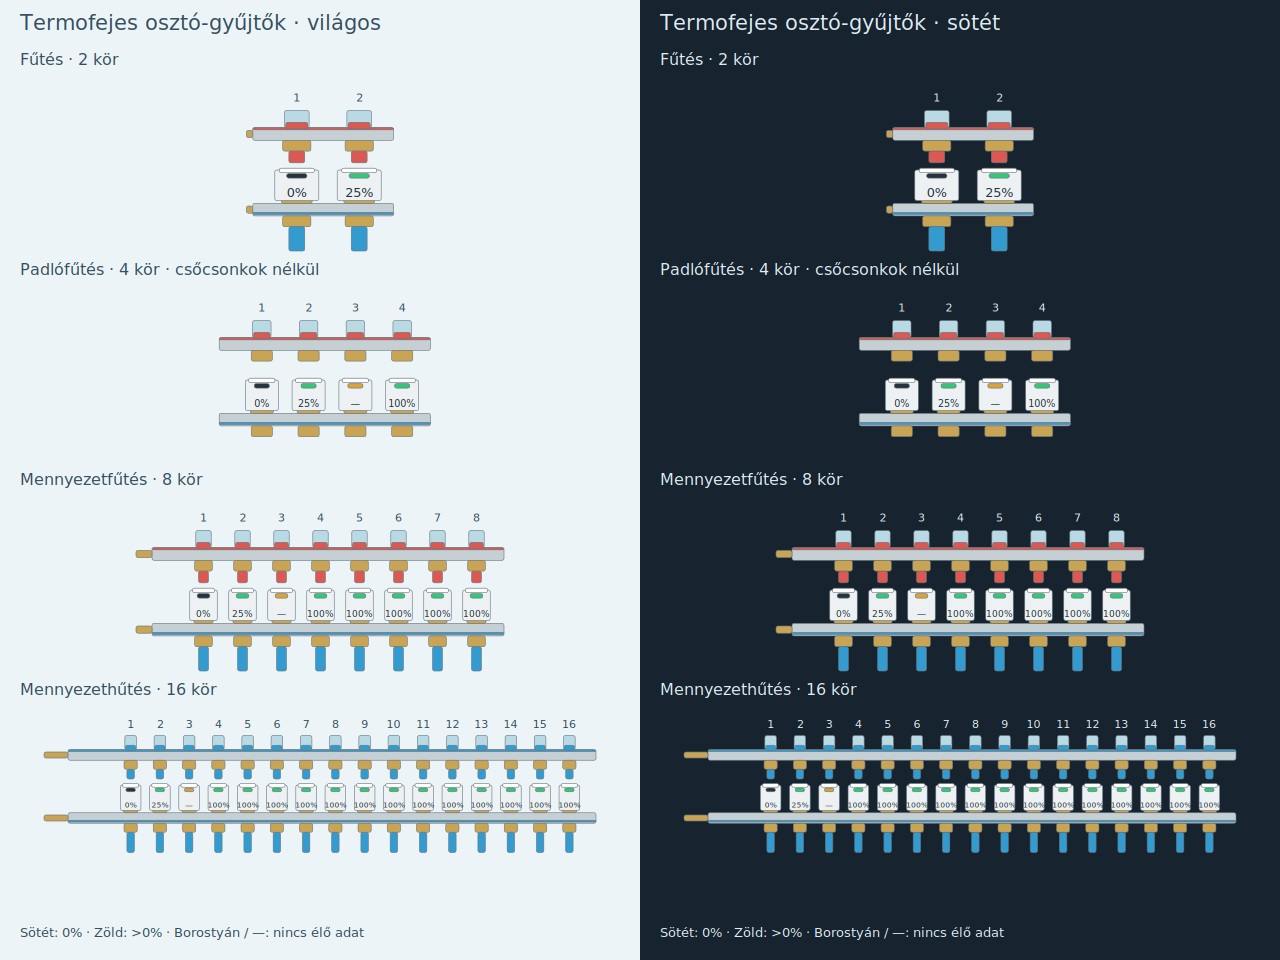
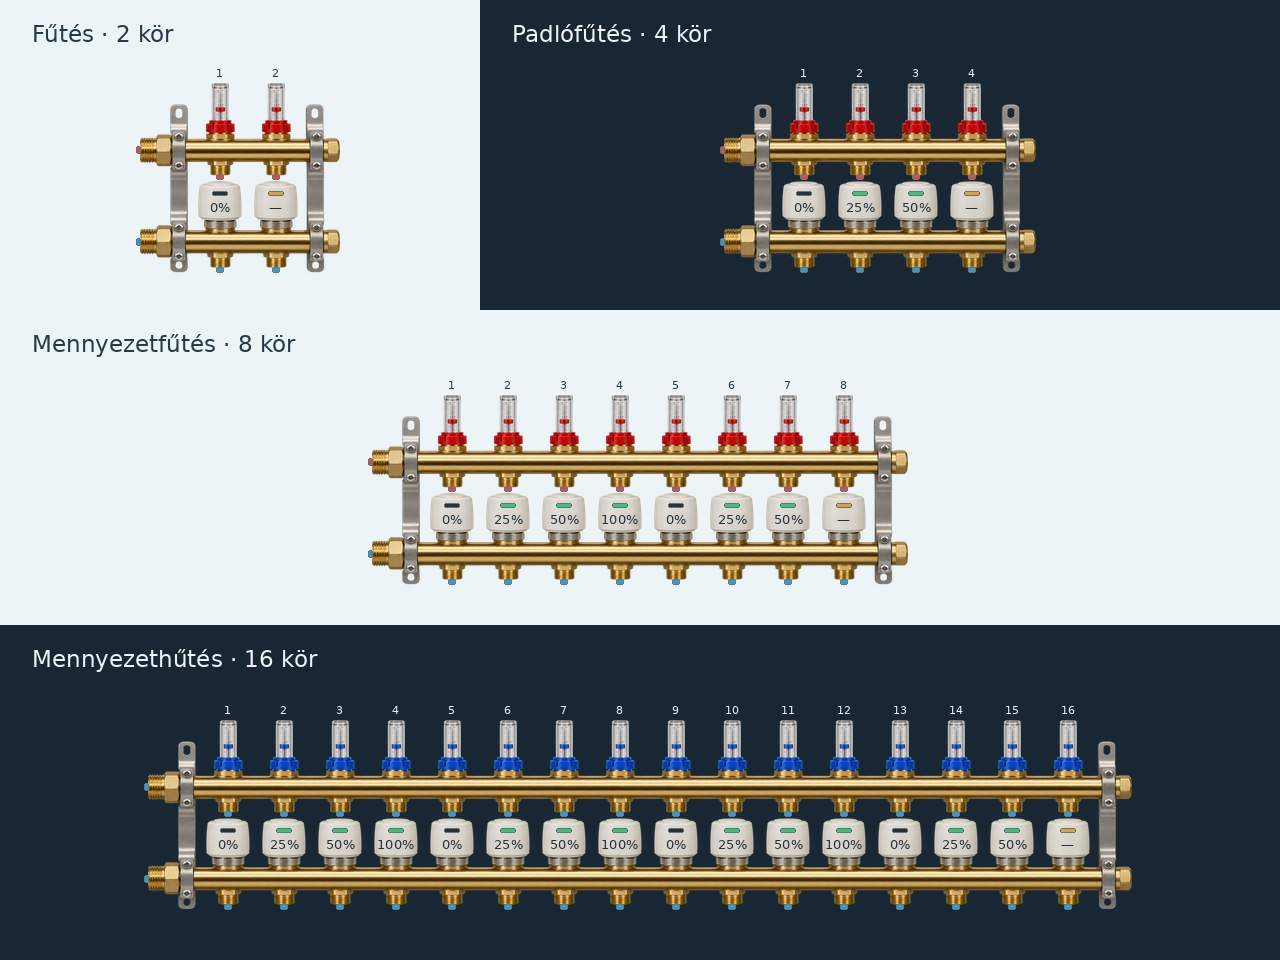
Document manifold calibration and refresh editor and LVGL previews

diff --git a/tools/build_manifold_preview.py b/tools/build_manifold_preview.py
@@ -1,57 +1,52 @@
-"""A szerkesztő tényleges rajzelemeiből összeállított világos/sötét csoportelőnézet."""
+"""A becsomagolt osztótestek a webszerkesztő jelzőivel és csonkjaival."""
 import io
 import json
 import subprocess
 from pathlib import Path
-from xml.sax.saxutils import escape
 
-import cairosvg
-from PIL import Image
+from PIL import Image, ImageDraw, ImageFont
+from build_assets import manifold_png
 
 ROOT = Path(__file__).resolve().parents[1]
-# A készülék és a böngésző is ugyanezt a geometriát használja.
 source = """
-import {newManifold,manifoldParts,manifoldHeadState} from './web/model.js';
-const variants=['heating','floor','ceiling-heat','ceiling-cool'];
-console.log(JSON.stringify([2,4,8,16].map((n,i)=>{
-    const m=newManifold(n);m.variant=variants[i];m.connections=i!==1;
-    m.heads.forEach((h,j)=>{h.percent=j===1?25:j>2?100:0;});
-    if(n>2)m.heads[2].source={uuid:'12345678-1234-5678-0102030405060708',scale:1,offset:0};
-    return {m,parts:manifoldParts(m),states:m.heads.map(h=>manifoldHeadState(h,{}))};
+import {newManifold, manifoldParts, manifoldCenter, manifoldHeadState} from './web/model.js';
+console.log(JSON.stringify([2,4,8,16].map((n,row)=>{
+    const m=newManifold(n);
+    if(row===3) m.variant='ceiling-cool';
+    m.heads.forEach((h,i)=>{h.percent=[0,25,50,100][i%4];});
+    m.heads[n-1].source={uuid:'12345678-1234-5678-0102030405060708',scale:1,offset:0};
+    return {n, parts:manifoldParts(m), heads:m.heads.map((h,i)=>({
+        x:manifoldCenter(n,i), ...manifoldHeadState(h,{})}))};
 })));
 """
 rows = json.loads(subprocess.check_output(["node", "--input-type=module", "-e", source], cwd=ROOT))
-svg = ['<svg xmlns="http://www.w3.org/2000/svg" width="1280" height="960">']
-labels = ['Fűtés · 2 kör', 'Padlófűtés · 4 kör · csőcsonkok nélkül',
-          'Mennyezetfűtés · 8 kör', 'Mennyezethűtés · 16 kör']
-for theme in range(2):
-    left = theme * 640
-    bg, text = ('#17232f', '#dfecf4') if theme else ('#edf4f8', '#354e60')
-    svg.append(f'<rect x="{left}" width="640" height="960" fill="{bg}"/>')
-    def title(x, y, value, size=16):
-        svg.append(f'<text x="{x}" y="{y}" fill="{text}" font-size="{size}" font-family="DejaVu Sans">{escape(value)}</text>')
-    title(left+20, 30, 'Termofejes osztó-gyűjtők · ' + ('sötét' if theme else 'világos'), 21)
-    for row, data in enumerate(rows):
-        y = 65 + row*210
-        title(left+20, y, labels[row])
-        m = data['m']
-        scale = min(1, 600/(80+40*m['circuits']))
-        w, h = (80+40*m['circuits'])*scale, 180*scale
-        x0, y0 = left+(640-w)/2, y+15
-        for p in data['parts']:
-            fill = p['color']
-            if 'head' in p:
-                state = data['states'][p['head']]
-                fill = '#d9a23a' if not state['known'] else '#36c678' if state['active'] else '#26333d'
-            svg.append(f'<rect x="{x0+p["x"]*w}" y="{y0+p["y"]*h}" width="{p["w"]*w}" height="{p["h"]*h}" rx="2" fill="{fill}" stroke="#67747d" stroke-width=".6"/>')
-        for i, state in enumerate(data['states']):
-            x = x0+(.16+.78*(i+.5)/m['circuits'])*w
-            for value, ytext, size in [(str(i+1), y0+.12*h, 11),
-                                       (f'{state["percent"]:.0f}%' if state['known'] else '—', y0+.65*h, max(9,min(16,(80+40*m['circuits'])*.16/m['circuits']))*scale)]:
-                svg.append(f'<text x="{x}" y="{ytext}" text-anchor="middle" fill="{text if ytext == y0+.12*h else "#26333d"}" font-family="DejaVu Sans" font-size="{size}">{value}</text>')
-    title(left+20, 937, 'Sötét: 0% · Zöld: >0% · Borostyán / —: nincs élő adat', 13)
-svg.append('</svg>')
-image = Image.open(io.BytesIO(cairosvg.svg2png(bytestring=''.join(svg).encode()))).convert('RGB')
-output = ROOT/'doc/grafika/latvanytervek/08d-parameterezheto-osztok.jpg'
-image.save(output, quality=94)
-print(output)
+image = Image.new("RGB", (1280,960), "#edf4f8")
+draw = ImageDraw.Draw(image)
+def font(size):
+    return ImageFont.truetype("DejaVuSans.ttf", size)
+layouts = [(0,0,480,310), (480,0,800,310), (0,310,1280,315), (0,625,1280,335)]
+titles = ["Fűtés", "Padlófűtés", "Mennyezetfűtés", "Mennyezethűtés"]
+for index, (row, (x,y,w,h)) in enumerate(zip(rows,layouts)):
+    dark = index in (1,3)
+    bg, ink = ("#182733","#ecf2f6") if dark else ("#edf4f8","#273a48")
+    draw.rectangle((x,y,x+w-1,y+h-1), fill=bg)
+    n = row["n"]
+    draw.text((x+32,y+20), f"{titles[index]} · {n} kör", font=font(23), fill=ink)
+    body = Image.open(io.BytesIO(manifold_png(n,index==3)))
+    bw,bh = body.size
+    left,top=x+(w-bw)//2,y+(h-bh)//2+8
+    image.paste(body,(left,top),body)
+    for part in row["parts"]:
+        color = part["color"]
+        if "head" in part:
+            head=row["heads"][part["head"]]
+            color="#d9a23a" if not head["known"] else "#36c678" if head["active"] else "#26333d"
+        px=round(left+part["x"]*bw); py=round(top+part["y"]*bh)
+        draw.rounded_rectangle((px,py,px+round(part["w"]*bw)-1,py+round(part["h"]*bh)-1),
+                               radius=1,fill=color,outline="#67747d")
+    for i,head in enumerate(row["heads"]):
+        cx=round(left+head["x"]*bw)
+        draw.text((cx,top+26),str(i+1),anchor="ms",font=font(11),fill=ink)
+        text=f"{head['percent']:.0f}%" if head["known"] else "—"
+        draw.text((cx,top+161),text,anchor="ms",font=font(13),fill="#26333d")
+image.save(ROOT/"doc/grafika/latvanytervek/08d-parameterezheto-osztok.jpg", quality=93)

diff --git a/tools/generate_catalog_report.py b/tools/generate_catalog_report.py
@@ -15,10 +15,10 @@ counts = Counter(item['category'] for item in items)
 finished = Counter(item['category'] for item in ready)
 lines = ['# Grafikai készletnyilvántartás', '',
          f'**{len(items)} katalógustípus; {len(ready)} típushoz bekötött egyedi kép, '
-         f'{len({item["artwork"] for item in ready})} külön PNG-forrásból; {len(procedural)} számított műszaki grafika (egy szabadon paraméterezhető osztó és rögzített körszámú változatok).**', '',
-         'Minden katalógustípus képpel vagy pontos darabszámú számított grafikával megjeleníthető. '
+         f'{len({item["artwork"] for item in ready})} külön PNG-forrásból; {len(procedural)} fotómodulokból összeállított grafika (egy szabadon paraméterezhető osztó és rögzített körszámú változatok).**', '',
+         'Minden katalógustípus képpel vagy körszám szerint összeállított fotóval megjeleníthető. '
          'A grafikai bekötés nem helyettesíti a fizikai P4-/Miniserver-próbát; az MS1 még nyitott.', '',
-         '| Csoport | Típus | Egyedi képpel | Számított | Még helyőrző |', '| --- | ---: | ---: | ---: | ---: |']
+         '| Csoport | Típus | Egyedi képpel | Fotómodulokból | Még helyőrző |', '| --- | ---: | ---: | ---: | ---: |']
 for category, names in catalog.CATEGORIES.items():
     lines.append(f'| {names["hu"]} | {counts[category]} | {finished[category]} | {parameterized[category]} | {counts[category] - finished[category] - parameterized[category]} |')
 lines += ['', 'A fűtési, szolár és általános keringető azonos fizikai szivattyúházat használhat. '
@@ -28,7 +28,7 @@ for category, names in catalog.CATEGORIES.items():
     for item in items:
         if item['category'] != category:
             continue
-        status = f'[Egyedi kép](../../assets/elements/universal/{item["artwork"]}.png)' if 'artwork' in item else '[Számított osztógrafika](../osztogyujtok.md)' if item in procedural else 'Műszaki helyőrző'
+        status = f'[Egyedi kép](../../assets/elements/universal/{item["artwork"]}.png)' if 'artwork' in item else '[Moduláris osztókép](../osztogyujtok.md)' if item in procedural else 'Műszaki helyőrző'
         lines.append(f'| `{item["id"]}` | {item["name"]["hu"]} | {item["name"]["en"]} | {status} |')
     lines.append('')
 lines += ['A nyilvántartást a `python3 tools/generate_catalog_report.py` frissíti a firmware-katalógusból.', '']

diff --git a/doc/grafika/csatlakozopont-audit.md b/doc/grafika/csatlakozopont-audit.md
@@ -6,11 +6,11 @@ A `catalog/port-calibration.json` az érvényes koordinátaforrás. A raszter SH
 
 A hátoldalon takart csatlakozások és a tengelyirányból mutatott karimák pontjai sematikus vetületek. Ezeknél a meglévő képen nem látható minden csonk; nem állítjuk, hogy látható nyíláshoz illeszkednek. Az érzékelők kábelei, rögzítőfülek, zárt sapkák és villamos csatlakozók nem új csőportok.
 
-A 11 számított osztónál az ágak és a pontok azonos paraméterekből készülnek; a szabadon állítható osztó minden 2–16 körszámmal külön ellenőrzött.
+Az osztók új kalibrációja a sorban megadott, szélesebb forrásvászonra vonatkozik; a szabadon állítható osztó minden 2–16 körszámmal külön ellenőrzött.
 
 Csővastagság: **1–30 kijelzőpixel**, csövenként a Tulajdonságok panelen. A felirat tartalmazza az egységet és a tartományt. Chromiumban 1/12/30 px rajzolás és tartós mentés, valódi LVGL-objektumon ugyanezek vonalvastagsága ellenőrzött. Minden katalógusport négy forgatásban, fekvő/álló vásznon kap geometriai ellenőrzést. Ez gazdagépes ellenőrzés, a fizikai panelpróbát nem helyettesíti.
 
-| Típus | Ellenőrzés | Portok (160 px vászon, indexsorrend) | Javítva |
+| Típus | Ellenőrzés | Portok (forráspixel, indexsorrend) | Javítva |
 | --- | --- | --- | --- |
 | `gas-boiler` | Látható csonk / nyílás | 64,140; 96,140 | igen |
 | `electric-boiler` | Látható csonk / nyílás | 66,137; 93,137 | igen |
@@ -59,12 +59,12 @@ Csővastagság: **1–30 kijelzőpixel**, csövenként a Tulajdonságok panelen.
 | `tubular-exchanger` | Látható csonk / nyílás | 8,80; 151,80; 47,52; 102,107 | igen |
 | `hydraulic-separator` | Látható csonk / nyílás | 41,53; 121,53; 41,106; 121,106 | igen |
 | `mixing-unit` | Látható csonk / nyílás | 11,61; 149,61; 12,120; 149,120 | igen |
-| `manifold-2` | Számított osztó | 12,49; 12,117; 55,151; 115,151; 55,74; 115,74 | — |
-| `manifold-4` | Számított osztó | 12,49; 12,117; 40,151; 70,151; 100,151; 130,151; 40,74; 70,74; 100,74; 130,74 | — |
-| `manifold-6` | Számított osztó | 12,49; 12,117; 35,151; 55,151; 75,151; 95,151; 115,151; 135,151; 35,74; 55,74; 75,74; 95,74; 115,74; 135,74 | — |
-| `manifold-8` | Számított osztó | 12,49; 12,117; 32.5,151; 47.5,151; 62.5,151; 77.5,151; 92.5,151; 107.5,151; 122.5,151; 137.5,151; 32.5,74; 47.5,74; 62.5,74; 77.5,74; 92.5,74; 107.5,74; 122.5,74; 137.5,74 | — |
-| `manifold-10` | Számított osztó | 12,49; 12,117; 31,151; 43,151; 55,151; 67,151; 79,151; 91,151; 103,151; 115,151; 127,151; 139,151; 31,74; 43,74; 55,74; 67,74; 79,74; 91,74; 103,74; 115,74; 127,74; 139,74 | — |
-| `manifold-12` | Számított osztó | 12,49; 12,117; 30,151; 40,151; 50,151; 60,151; 70,151; 80,151; 90,151; 100,151; 110,151; 120,151; 130,151; 140,151; 30,74; 40,74; 50,74; 60,74; 70,74; 80,74; 90,74; 100,74; 110,74; 120,74; 130,74; 140,74 | — |
+| `manifold-2` | Fotómodulok · 208×224 | 4,99; 4,191; 84,217; 140,217; 84,124; 140,124 | igen |
+| `manifold-4` | Fotómodulok · 320×224 | 4,99; 4,191; 84,217; 140,217; 196,217; 252,217; 84,124; 140,124; 196,124; 252,124 | igen |
+| `manifold-6` | Fotómodulok · 432×224 | 4,99; 4,191; 84,217; 140,217; 196,217; 252,217; 308,217; 364,217; 84,124; 140,124; 196,124; 252,124; 308,124; 364,124 | igen |
+| `manifold-8` | Fotómodulok · 544×224 | 4,99; 4,191; 84,217; 140,217; 196,217; 252,217; 308,217; 364,217; 420,217; 476,217; 84,124; 140,124; 196,124; 252,124; 308,124; 364,124; 420,124; 476,124 | igen |
+| `manifold-10` | Fotómodulok · 656×224 | 4,99; 4,191; 84,217; 140,217; 196,217; 252,217; 308,217; 364,217; 420,217; 476,217; 532,217; 588,217; 84,124; 140,124; 196,124; 252,124; 308,124; 364,124; 420,124; 476,124; 532,124; 588,124 | igen |
+| `manifold-12` | Fotómodulok · 768×224 | 4,99; 4,191; 84,217; 140,217; 196,217; 252,217; 308,217; 364,217; 420,217; 476,217; 532,217; 588,217; 644,217; 700,217; 84,124; 140,124; 196,124; 252,124; 308,124; 364,124; 420,124; 476,124; 532,124; 588,124; 644,124; 700,124 | igen |
 | `electrothermal-manifold-4` | Látható csonk / nyílás | 12,55; 12,127; 44,72; 68,72; 93,72; 117,72; 44,143; 68,143; 93,143; 117,143 | igen |
 | `ball-valve` | Látható csonk / nyílás | 26,97; 127,97 | igen |
 | `shutoff-valve` | Látható csonk / nyílás | 27,120; 132,120 | igen |
@@ -227,10 +227,10 @@ Csővastagság: **1–30 kijelzőpixel**, csövenként a Tulajdonságok panelen.
 | `coil-exchanger` | Látható csonk / nyílás | 36,13; 124,148 | igen |
 | `tube-in-tube-exchanger` | Látható csonk / nyílás | 8,84; 153,84; 44,51.2; 117,115 | igen |
 | `freshwater-station` | Látható csonk / nyílás | 10,64; 10,114; 150,64; 150,114 | igen |
-| `manifold-3` | Számított osztó | 12,49; 12,117; 45,151; 85,151; 125,151; 45,74; 85,74; 125,74 | — |
-| `manifold-5` | Számított osztó | 12,49; 12,117; 37,151; 61,151; 85,151; 109,151; 133,151; 37,74; 61,74; 85,74; 109,74; 133,74 | — |
-| `manifold-7` | Számított osztó | 12,49; 12,117; 33.5714,151; 50.7143,151; 67.8571,151; 85,151; 102.143,151; 119.286,151; 136.429,151; 33.5714,74; 50.7143,74; 67.8571,74; 85,74; 102.143,74; 119.286,74; 136.429,74 | — |
-| `manifold-9` | Számított osztó | 12,49; 12,117; 31.6667,151; 45,151; 58.3333,151; 71.6667,151; 85,151; 98.3333,151; 111.667,151; 125,151; 138.333,151; 31.6667,74; 45,74; 58.3333,74; 71.6667,74; 85,74; 98.3333,74; 111.667,74; 125,74; 138.333,74 | — |
+| `manifold-3` | Fotómodulok · 264×224 | 4,99; 4,191; 84,217; 140,217; 196,217; 84,124; 140,124; 196,124 | igen |
+| `manifold-5` | Fotómodulok · 376×224 | 4,99; 4,191; 84,217; 140,217; 196,217; 252,217; 308,217; 84,124; 140,124; 196,124; 252,124; 308,124 | igen |
+| `manifold-7` | Fotómodulok · 488×224 | 4,99; 4,191; 84,217; 140,217; 196,217; 252,217; 308,217; 364,217; 420,217; 84,124; 140,124; 196,124; 252,124; 308,124; 364,124; 420,124 | igen |
+| `manifold-9` | Fotómodulok · 600×224 | 4,99; 4,191; 84,217; 140,217; 196,217; 252,217; 308,217; 364,217; 420,217; 476,217; 532,217; 84,124; 140,124; 196,124; 252,124; 308,124; 364,124; 420,124; 476,124; 532,124 | igen |
 | `duplex-strainer` | Látható csonk / nyílás | 15,86; 148,86 | igen |
 | `basket-strainer` | Látható csonk / nyílás | 12,83.2; 144,83.2 | — |
 | `prefilter` | Látható csonk / nyílás | 24,41.6; 136,41.6 | — |
@@ -344,4 +344,4 @@ Csővastagság: **1–30 kijelzőpixel**, csövenként a Tulajdonságok panelen.
 | `carbon-monoxide-sensor` | Nincs csőport | — | — |
 | `air-velocity-sensor` | Nincs csőport | — | — |
 | `gas-meter` | Látható csonk / nyílás | 40,13; 120,13 | igen |
-| `configurable-manifold` | Számított osztó | 6.4,48; 6.4,115.2; 29.5,73.6; 29.5,152; 37.3,73.6; 37.3,152; 45.1,73.6; 45.1,152; 52.9,73.6; 52.9,152; 60.7,73.6; 60.7,152; 68.5,73.6; 68.5,152; 76.3,73.6; 76.3,152; 84.1,73.6; 84.1,152; 91.9,73.6; 91.9,152; 99.7,73.6; 99.7,152; 107.5,73.6; 107.5,152; 115.3,73.6; 115.3,152; 123.1,73.6; 123.1,152; 130.9,73.6; 130.9,152; 138.7,73.6; 138.7,152; 146.5,73.6; 146.5,152 | — |
+| `configurable-manifold` | Fotómodulok · 992×224 | 0,99; 0,191; 84,129; 84,222; 140,129; 140,222; 196,129; 196,222; 252,129; 252,222; 308,129; 308,222; 364,129; 364,222; 420,129; 420,222; 476,129; 476,222; 532,129; 532,222; 588,129; 588,222; 644,129; 644,222; 700,129; 700,222; 756,129; 756,222; 812,129; 812,222; 868,129; 868,222; 924,129; 924,222 | igen |

diff --git a/doc/grafika/keszlet.md b/doc/grafika/keszlet.md
@@ -1,10 +1,10 @@
 # Grafikai készletnyilvántartás
 
-**333 katalógustípus; 322 típushoz bekötött egyedi kép, 319 külön PNG-forrásból; 11 számított műszaki grafika (egy szabadon paraméterezhető osztó és rögzített körszámú változatok).**
+**333 katalógustípus; 322 típushoz bekötött egyedi kép, 319 külön PNG-forrásból; 11 fotómodulokból összeállított grafika (egy szabadon paraméterezhető osztó és rögzített körszámú változatok).**
 
-Minden katalógustípus képpel vagy pontos darabszámú számított grafikával megjeleníthető. A grafikai bekötés nem helyettesíti a fizikai P4-/Miniserver-próbát; az MS1 még nyitott.
+Minden katalógustípus képpel vagy körszám szerint összeállított fotóval megjeleníthető. A grafikai bekötés nem helyettesíti a fizikai P4-/Miniserver-próbát; az MS1 még nyitott.
 
-| Csoport | Típus | Egyedi képpel | Számított | Még helyőrző |
+| Csoport | Típus | Egyedi képpel | Fotómodulokból | Még helyőrző |
 | --- | ---: | ---: | ---: | ---: |
 | Fűtés / hűtés | 48 | 48 | 0 | 0 |
 | Tárolás / HMV | 24 | 24 | 0 | 0 |
@@ -117,12 +117,12 @@ A fűtési, szolár és általános keringető azonos fizikai szivattyúházat h
 | `tubular-exchanger` | Csöves hőcserélő | Tubular heat exchanger | [Egyedi kép](../../assets/elements/universal/tubular-exchanger.png) |
 | `hydraulic-separator` | Hidraulikus váltó | Hydraulic separator | [Egyedi kép](../../assets/elements/universal/hydraulic-separator.png) |
 | `mixing-unit` | Keverőegység | Mixing unit | [Egyedi kép](../../assets/elements/universal/mixing-unit.png) |
-| `manifold-2` | Osztó-gyűjtő 2 kör | 2 circuit manifold | [Számított osztógrafika](../osztogyujtok.md) |
-| `manifold-4` | Osztó-gyűjtő 4 kör | 4 circuit manifold | [Számított osztógrafika](../osztogyujtok.md) |
-| `manifold-6` | Osztó-gyűjtő 6 kör | 6 circuit manifold | [Számított osztógrafika](../osztogyujtok.md) |
-| `manifold-8` | Osztó-gyűjtő 8 kör | 8 circuit manifold | [Számított osztógrafika](../osztogyujtok.md) |
-| `manifold-10` | Osztó-gyűjtő 10 kör | 10 circuit manifold | [Számított osztógrafika](../osztogyujtok.md) |
-| `manifold-12` | Osztó-gyűjtő 12 kör | 12 circuit manifold | [Számított osztógrafika](../osztogyujtok.md) |
+| `manifold-2` | Osztó-gyűjtő 2 kör | 2 circuit manifold | [Moduláris osztókép](../osztogyujtok.md) |
+| `manifold-4` | Osztó-gyűjtő 4 kör | 4 circuit manifold | [Moduláris osztókép](../osztogyujtok.md) |
+| `manifold-6` | Osztó-gyűjtő 6 kör | 6 circuit manifold | [Moduláris osztókép](../osztogyujtok.md) |
+| `manifold-8` | Osztó-gyűjtő 8 kör | 8 circuit manifold | [Moduláris osztókép](../osztogyujtok.md) |
+| `manifold-10` | Osztó-gyűjtő 10 kör | 10 circuit manifold | [Moduláris osztókép](../osztogyujtok.md) |
+| `manifold-12` | Osztó-gyűjtő 12 kör | 12 circuit manifold | [Moduláris osztókép](../osztogyujtok.md) |
 | `electrothermal-manifold-4` | Osztó-gyűjtő 4 kör – termoelektromos fejekkel | 4 circuit manifold with electrothermal heads | [Egyedi kép](../../assets/elements/universal/electrothermal-manifold-4.png) |
 | `strainer` | Y-szűrő | Y strainer | [Egyedi kép](../../assets/elements/universal/strainer.png) |
 | `dirt-separator` | Iszapleválasztó | Dirt separator | [Egyedi kép](../../assets/elements/universal/dirt-separator.png) |
@@ -154,10 +154,10 @@ A fűtési, szolár és általános keringető azonos fizikai szivattyúházat h
 | `coil-exchanger` | Csőkígyós hőcserélő | Coil heat exchanger | [Egyedi kép](../../assets/elements/universal/coil-exchanger.png) |
 | `tube-in-tube-exchanger` | Cső a csőben hőcserélő | Tube in tube exchanger | [Egyedi kép](../../assets/elements/universal/tube-in-tube-exchanger.png) |
 | `freshwater-station` | Frissvízmodul | Fresh water station | [Egyedi kép](../../assets/elements/universal/freshwater-station.png) |
-| `manifold-3` | Osztó-gyűjtő 3 kör | 3 circuit manifold | [Számított osztógrafika](../osztogyujtok.md) |
-| `manifold-5` | Osztó-gyűjtő 5 kör | 5 circuit manifold | [Számított osztógrafika](../osztogyujtok.md) |
-| `manifold-7` | Osztó-gyűjtő 7 kör | 7 circuit manifold | [Számított osztógrafika](../osztogyujtok.md) |
-| `manifold-9` | Osztó-gyűjtő 9 kör | 9 circuit manifold | [Számított osztógrafika](../osztogyujtok.md) |
+| `manifold-3` | Osztó-gyűjtő 3 kör | 3 circuit manifold | [Moduláris osztókép](../osztogyujtok.md) |
+| `manifold-5` | Osztó-gyűjtő 5 kör | 5 circuit manifold | [Moduláris osztókép](../osztogyujtok.md) |
+| `manifold-7` | Osztó-gyűjtő 7 kör | 7 circuit manifold | [Moduláris osztókép](../osztogyujtok.md) |
+| `manifold-9` | Osztó-gyűjtő 9 kör | 9 circuit manifold | [Moduláris osztókép](../osztogyujtok.md) |
 | `duplex-strainer` | Iker kosaras szűrő | Duplex strainer | [Egyedi kép](../../assets/elements/universal/duplex-strainer.png) |
 | `basket-strainer` | Kosaras szűrő | Basket strainer | [Egyedi kép](../../assets/elements/universal/basket-strainer.png) |
 | `prefilter` | Előszűrő | Prefilter | [Egyedi kép](../../assets/elements/universal/prefilter.png) |
@@ -226,7 +226,7 @@ A fűtési, szolár és általános keringető azonos fizikai szivattyúházat h
 | `reduced-pressure-backflow` | Csökkentett nyomású visszafolyásgátló | Reduced pressure backflow preventer | [Egyedi kép](../../assets/elements/universal/reduced-pressure-backflow.png) |
 | `sewage-backwater-valve` | Szennyvíz visszatorlódás-gátló | Sewage backwater valve | [Egyedi kép](../../assets/elements/universal/sewage-backwater-valve.png) |
 | `automatic-bypass-valve` | Automatikus bypass szelep | Automatic bypass valve | [Egyedi kép](../../assets/elements/universal/automatic-bypass-valve.png) |
-| `configurable-manifold` | Termofejes osztó-gyűjtő (2–16 kör) | Actuated manifold (2–16 circuits) | [Számított osztógrafika](../osztogyujtok.md) |
+| `configurable-manifold` | Termofejes osztó-gyűjtő (2–16 kör) | Actuated manifold (2–16 circuits) | [Moduláris osztókép](../osztogyujtok.md) |
 
 ## Szellőzés / légtechnika
 

diff --git a/README.md b/README.md
@@ -4,11 +4,12 @@
 
 **Állapot: MS1 fejlesztés alatt. Ez még nem lezárt, készüléken igazolt kiadás.** A működési webszerkesztő kipróbálható, az összes típus grafikai bekötése elkészült, a készülékes igazolás még szükséges.
 
-A **B, térhatásosabb grafikai irány kiválasztva**. Mind a **333 katalógustípus** bekötve: 322 típus 319 külön PNG-forrást használ, 11 osztógrafika számított rajzzal jelenik meg; helyőrző nincs. [Teljes bekötés](doc/grafika/teljes-bekotes.md) · [Készletnyilvántartás](doc/grafika/keszlet.md). A [2–16 körös termofejes osztók és a 90°-os elemforgatás](doc/osztogyujtok.md) is bekötve. A valódi Miniserveres és készülékes próbák még szükségesek. Élő adat nélkül a készülék ismeretlen állapotot jelez. [Részletes állapot](doc/allapot.md) · [Készülékes indítás](doc/keszulek.md).
+A **B, térhatásosabb grafikai irány kiválasztva**. Mind a **333 katalógustípus** bekötve: 322 típus 319 külön PNG-forrást használ, 11 osztótípus valósághű képe közös fotómodulokból épül fel; helyőrző nincs. [Teljes bekötés](doc/grafika/teljes-bekotes.md) · [Készletnyilvántartás](doc/grafika/keszlet.md). A [2–16 körös termofejes osztók és a 90°-os elemforgatás](doc/osztogyujtok.md) is bekötve. A valódi Miniserveres és készülékes próbák még szükségesek. Élő adat nélkül a készülék ismeretlen állapotot jelez. [Részletes állapot](doc/allapot.md) · [Készülékes indítás](doc/keszulek.md).
 
 A kipróbálható számítógépes előnézet indítása:
 
 ```sh
+python3 -m pip install -r tools/requirements-assets.txt
 python3 tools/build_assets.py
 python3 tools/dev_server.py --demo
 ```

diff --git a/doc/fejlesztes.md b/doc/fejlesztes.md
@@ -5,6 +5,7 @@
 Python 3.12 és Node.js 22 vagy újabb szükséges. A szerkesztőnek nincs npm futásidejű függősége.
 
 ```sh
+python3 -m pip install -r tools/requirements-assets.txt
 python3 tools/build_assets.py
 python3 tools/dev_server.py --demo
 ```
